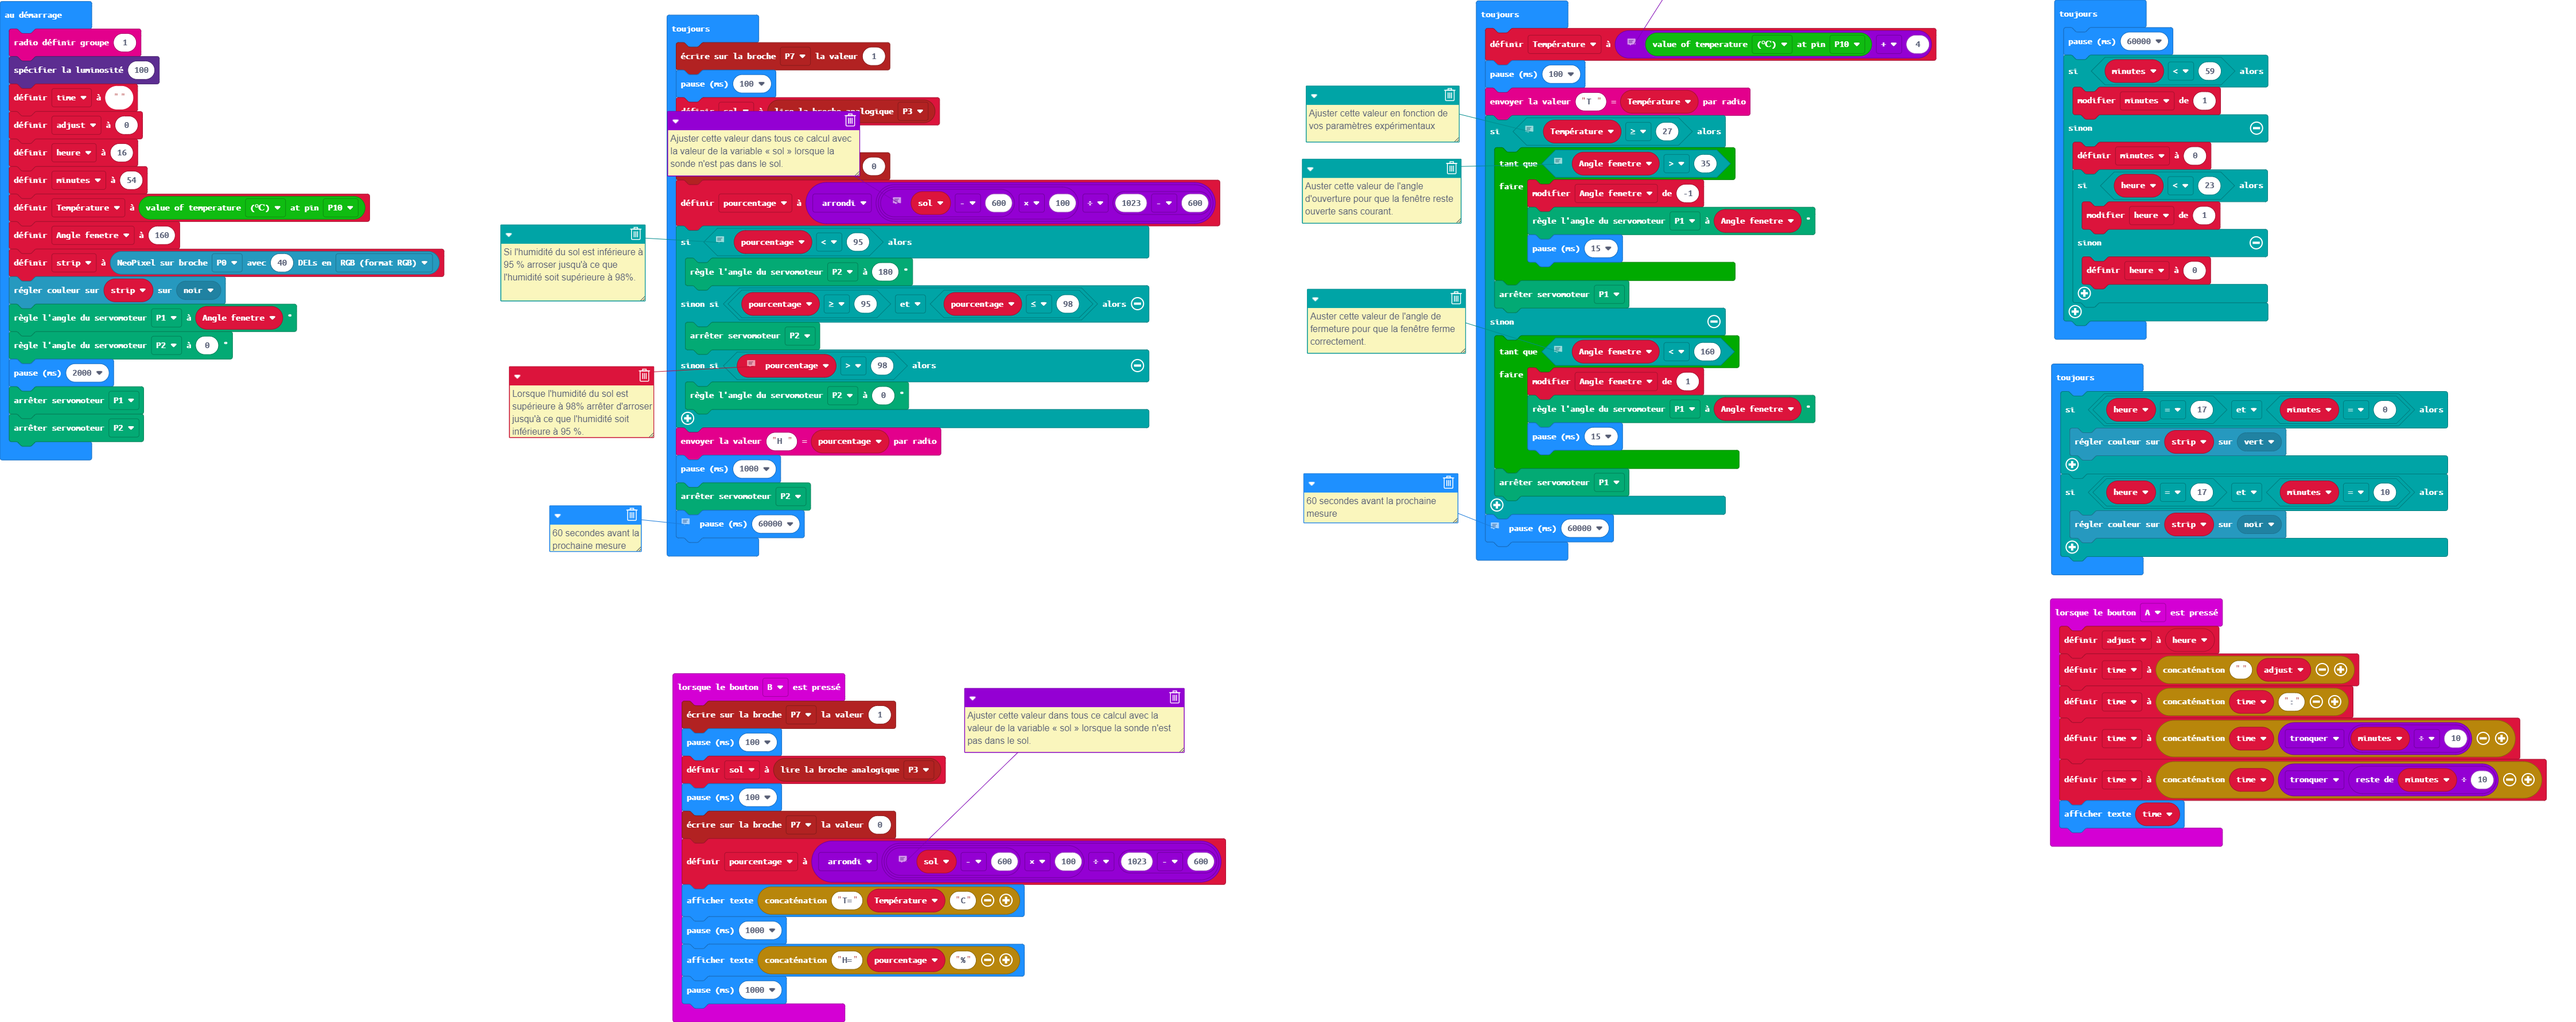
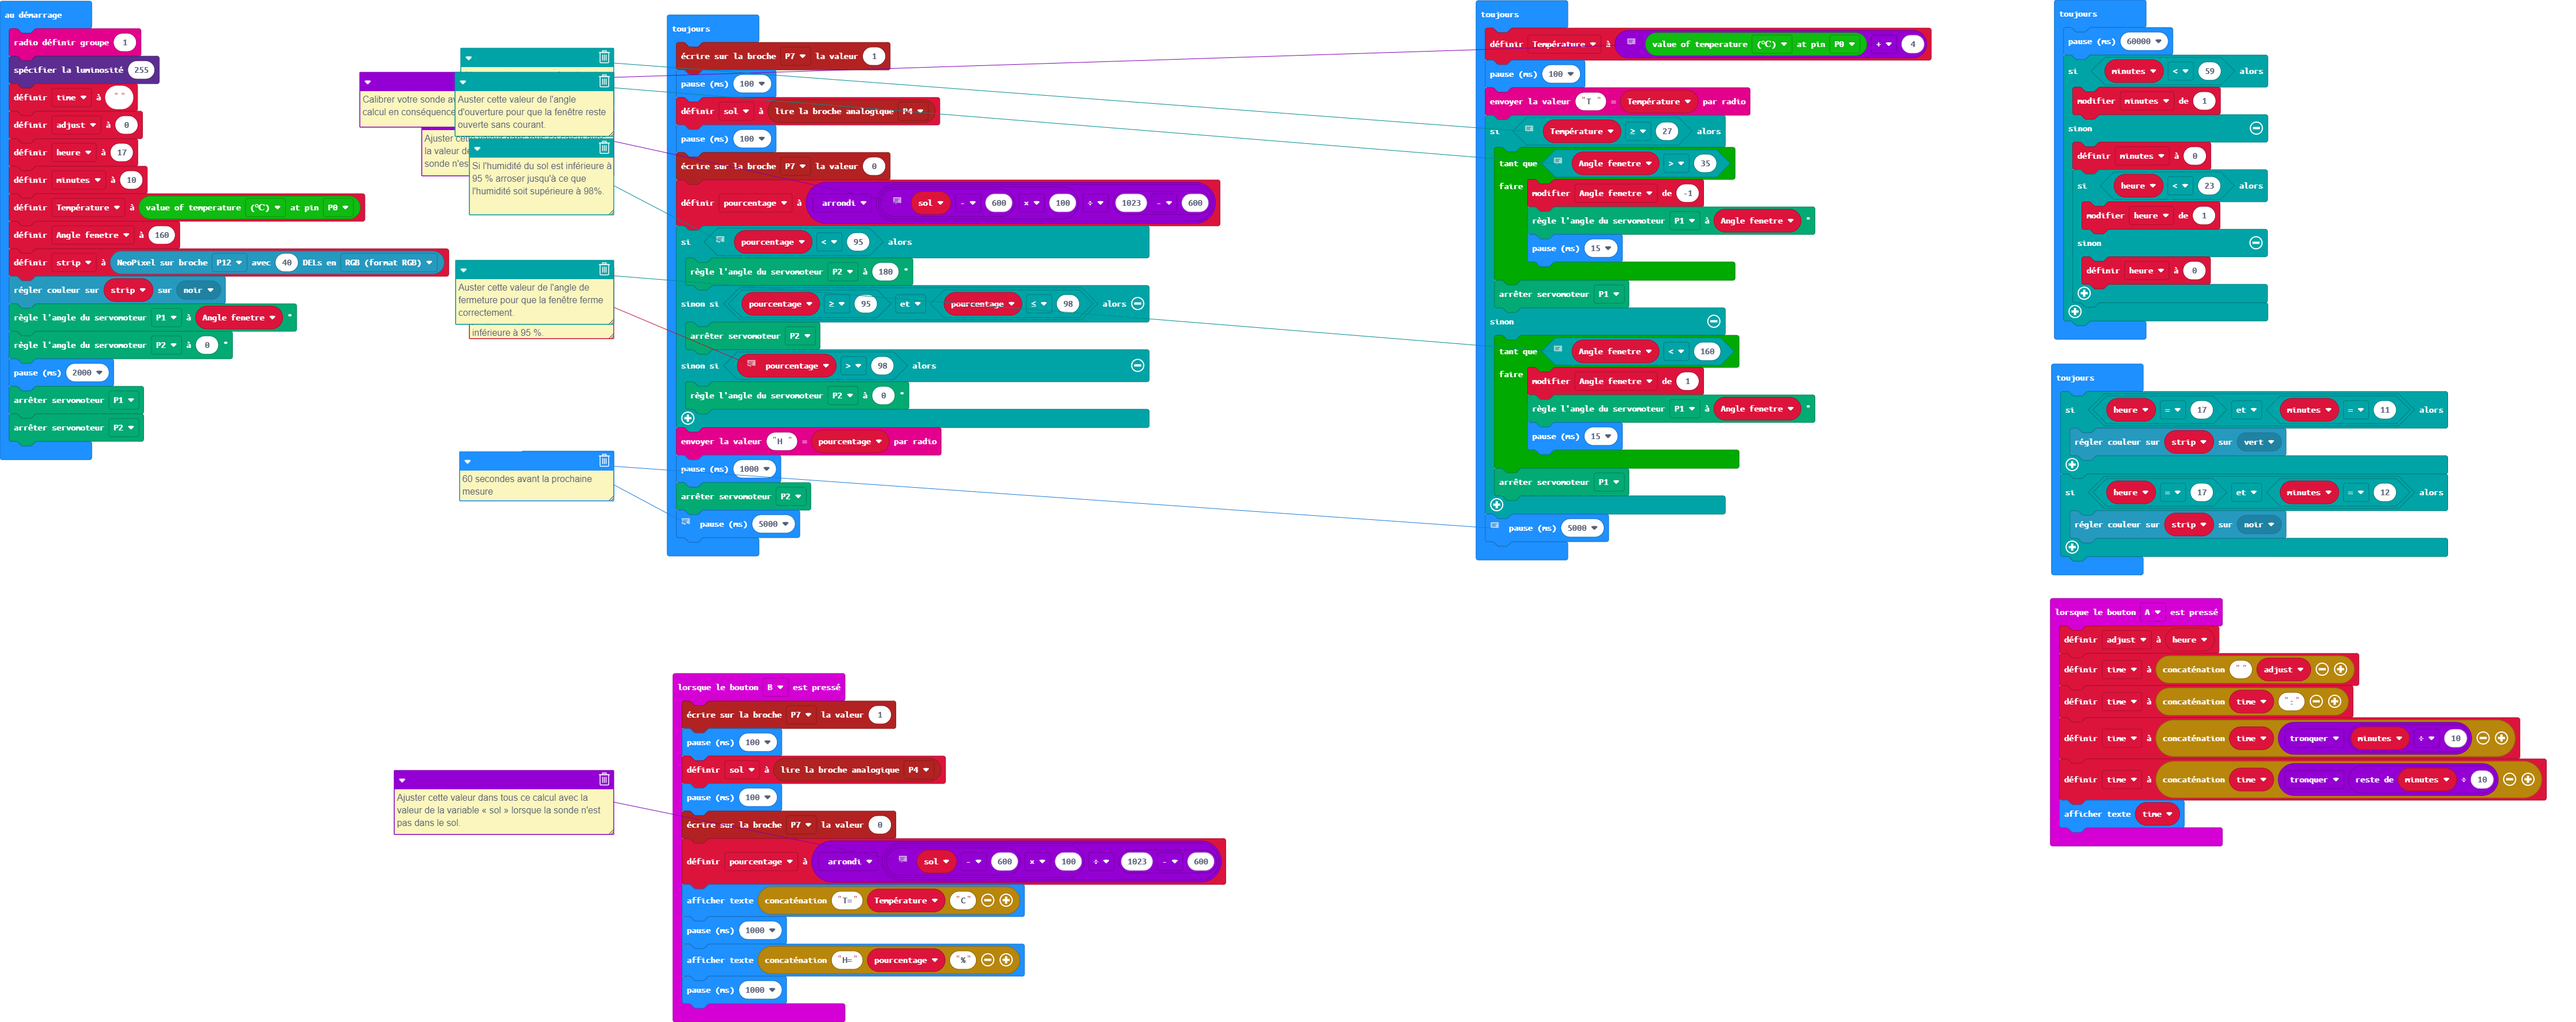
Mise à jour main.blocks, main.ts

diff --git a/main.ts b/main.ts
@@ -9,7 +9,7 @@ input.onButtonPressed(Button.A, function () {
 input.onButtonPressed(Button.B, function () {
     pins.digitalWritePin(DigitalPin.P7, 1)
     basic.pause(100)
-    sol = pins.analogReadPin(AnalogPin.P3)
+    sol = pins.analogReadPin(AnalogPin.P4)
     basic.pause(100)
     pins.digitalWritePin(DigitalPin.P7, 0)
     // Ajuster cette valeur dans tous ce calcul avec la valeur de la variable « sol » lorsque la sonde n'est pas dans le sol.
@@ -27,14 +27,14 @@ let heure = 0
 let adjust = 0
 let time = ""
 radio.setGroup(1)
-led.setBrightness(100)
+led.setBrightness(255)
 time = ""
 adjust = 0
-heure = 16
-minutes = 54
-Température = smarthome.ReadTemperature(TMP36Type.TMP36_temperature_C, AnalogPin.P10)
+heure = 17
+minutes = 10
+Température = smarthome.ReadTemperature(TMP36Type.TMP36_temperature_C, AnalogPin.P0)
 let Angle_fenetre = 160
-let strip = neopixel.create(DigitalPin.P0, 40, NeoPixelMode.RGB)
+let strip = neopixel.create(DigitalPin.P12, 40, NeoPixelMode.RGB)
 strip.showColor(neopixel.colors(NeoPixelColors.Black))
 servos.P1.setAngle(Angle_fenetre)
 servos.P2.setAngle(0)
@@ -44,7 +44,7 @@ servos.P2.stop()
 basic.forever(function () {
     pins.digitalWritePin(DigitalPin.P7, 1)
     basic.pause(100)
-    sol = pins.analogReadPin(AnalogPin.P3)
+    sol = pins.analogReadPin(AnalogPin.P4)
     basic.pause(100)
     pins.digitalWritePin(DigitalPin.P7, 0)
     // Ajuster cette valeur dans tous ce calcul avec la valeur de la variable « sol » lorsque la sonde n'est pas dans le sol.
@@ -62,11 +62,11 @@ basic.forever(function () {
     basic.pause(1000)
     servos.P2.stop()
     // 60 secondes avant la prochaine mesure
-    basic.pause(60000)
+    basic.pause(5000)
 })
 basic.forever(function () {
     // Calibrer votre sonde avec un autre thermomètre et ajuster le calcul en conséquence.
-    Température = smarthome.ReadTemperature(TMP36Type.TMP36_temperature_C, AnalogPin.P10) + 4
+    Température = smarthome.ReadTemperature(TMP36Type.TMP36_temperature_C, AnalogPin.P0) + 4
     basic.pause(100)
     radio.sendValue("T ", Température)
     // Ajuster cette valeur en fonction de vos paramètres expérimentaux
@@ -88,7 +88,7 @@ basic.forever(function () {
         servos.P1.stop()
     }
     // 60 secondes avant la prochaine mesure
-    basic.pause(60000)
+    basic.pause(5000)
 })
 basic.forever(function () {
     basic.pause(60000)
@@ -104,10 +104,10 @@ basic.forever(function () {
     }
 })
 basic.forever(function () {
-    if (heure == 17 && minutes == 0) {
+    if (heure == 17 && minutes == 11) {
         strip.showColor(neopixel.colors(NeoPixelColors.Green))
     }
-    if (heure == 17 && minutes == 10) {
+    if (heure == 17 && minutes == 12) {
         strip.showColor(neopixel.colors(NeoPixelColors.Black))
     }
 })
